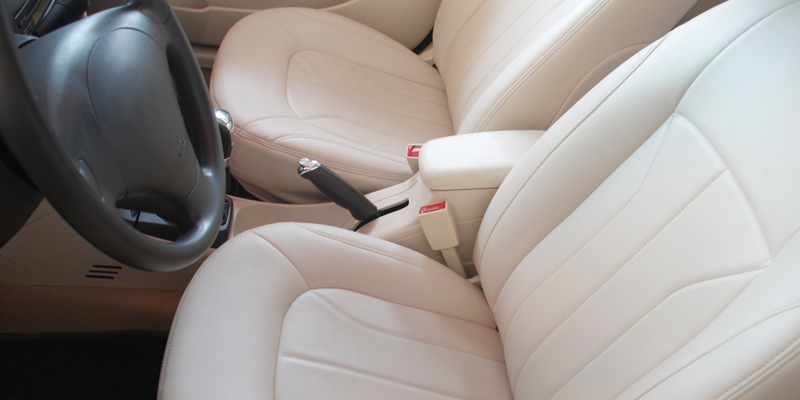
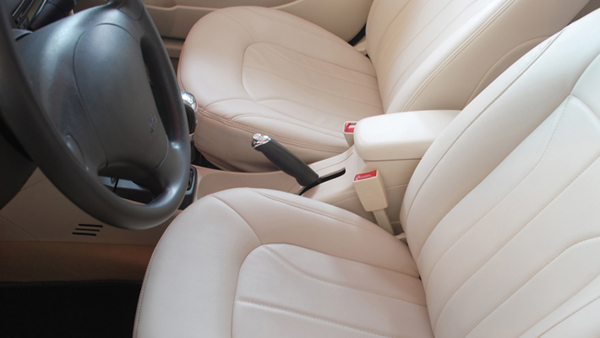
31.07.20

diff --git a/index.html b/index.html
@@ -5,18 +5,23 @@
 		<link rel="stylesheet" href="css.css">
 	</head>
 	<body>
+		<div id="top_menu">
+		</div>
 		
-		<div id="header">
-			<div id="textheader">
-				Перетяжка и реставрация <br>
-				автомобильных салонов<br>
-				Тонировка<br>
-				Василий<br>
-				0-779-81502<br>
-				069758501<br>
+		<div id="info">
+			<div id="text_info">
+				<div id="into_text_info">
+					text text text text text text text text text text text text text text text text text text <br>
+			text text text text text text text text text text text text text text text text text text <br>
+			text text text text text text text text text text text text text text text text text text <br>
+			text text text text text text text text text text text text text text text text text text <br>
+			text text text text text text text text text text text text text text text text text text <br>
+			text text text text text text text text text text text text text text text text text text <br>
+			text text text text text text text text text text text text text text text text text text 
+				</div>
 			</div>
 			
-			<div id="slidbar">
+			<div id="slid_info">
 				<div class="all">
 					<input checked type="radio" name="respond" id="desktop">
 					<article id="slider">
@@ -62,69 +67,39 @@
 				</div>
 			</div>
 		</div>
-		
-		
-		
-		
+		</div>
 		
 		<div id="content">
-			<div class="text"> 
-			text3 text3 text3 text3 text3 text3text3<br>
-			text3 text3 text3 text3 text3 text3 text3<br>
-			text3 text3 text3 text3 text3 text3 text3<br>
-			text3 text3 text3 text3 text3 text3 text3<br>
-			text3 text3 text3 text3 text3 text3 text3<br>
-			text3 text3 text3 text3 text3 text3 text3<br>
-			text3 text3 text3 text3 text3 text3 text3<br>
-			text3 text3 text3 text3 text3 text3 text3<br>
-			text3 text3 text3 text3 text3 text3 text3<br>
-			text3 text3 text3 text3 text3 text3 text3<br>
-			text3 text3 text3 text3 text3 text3 text3<br>
-			text3 text3 text3 text3 text3 text3 text3<br>
-			text3 text3 text3 text3 text3 text3 text3<br>
-			text3 text3 text3 text3 text3 text3 text3<br>
-			text3 text3 text3 text3 text3 text3 text3<br>
-			text3 text3 text3 text3 text3 text3 text3<br>
-			text3 text3 text3 text3 text3 text3 text3<br>
-			text3 text3 text3 text3 text3 text3 text3<br>
-			text3 text3 text3 text3 text3 text3 text3<br>
-			text3 text3 text3 text3 text3 text3 text3<br>
-			text3 text3 text3 text3 text3 text3 text3<br>
-			text3 text3 text3 text3 text3 text3 text3<br>
-			text3 text3 text3 text3 text3 text3 text3<br>
-			text3 text3 text3 text3 text3 text3 text3<br>
-			text3 text3 text3 text3 text3 text3 text3<br>
-			text3 text3 text3 text3 text3 text3 text3<br>
-			text3 text3 text3 text3 text3 text3 text3<br>
-			text3 text3 text3 text3 text3 text3 text3<br>
-			text3 text3 text3 text3 text3 text3 text3<br>
-			text3 text3 text3 text3 text3 text3 text3<br>
-			text3 text3 text3 text3 text3 text3 text3<br>
-			text3 text3 text3 text3 text3 text3 text3<br>
-			text3 text3 text3 text3 text3 text3 text3<br>
-			text3 text3 text3 text3 text3 text3 text3<br>
-			text3 text3 text3 text3 text3 text3 text3<br>
-			text3 text3 text3 text3 text3 text3 text3<br>
-			text3 text3 text3 text3 text3 text3 text3<br>
-			text3 text3 text3 text3 text3 text3 text3<br>
-			text3 text3 text3 text3 text3 text3 text3<br>
-			text3 text3 text3 text3 text3 text3 text3<br>
-			text3 text3 text3 text3 text3 text3 text3<br>
-			text3 text3 text3 text3 text3 text3 text3<br>
-			text3 text3 text3 text3 text3 text3 text3<br>
-			text3 text3 text3 text3 text3 text3 text3<br>
-			text3 text3 text3 text3 text3 text3 text3<br>
-			text3 text3 text3 text3 text3 text3 text3<br>
-			text3 text3 text3 text3 text3 text3 text3<br>
-			text3 text3 text3 text3 text3 text3 text3<br>
-			text3 text3 text3 text3 text3 text3 text3<br>
-			text3 text3 text3 text3 text3 text3 text3<br>
-			text3 text3 text3 text3 text3 text3 text3<br>
-			text3 text3 text3 text3 text3 text3 text3<br>
-			text3 text3 text3 text3 text3 text3 text3<br></div>
+			text text text text text text text text text text text text text text text text text text <br>
+			text text text text text text text text text text text text text text text text text text <br>
+			text text text text text text text text text text text text text text text text text text <br>
+			text text text text text text text text text text text text text text text text text text <br>
+			text text text text text text text text text text text text text text text text text text <br>
+			text text text text text text text text text text text text text text text text text text <br>
+			text text text text text text text text text text text text text text text text text text <br>
+			text text text text text text text text text text text text text text text text text text <br>
+			text text text text text text text text text text text text text text text text text text <br>
+			text text text text text text text text text text text text text text text text text text <br>
+			text text text text text text text text text text text text text text text text text text <br>
+			text text text text text text text text text text text text text text text text text text <br>
+			text text text text text text text text text text text text text text text text text text <br>
+			text text text text text text text text text text text text text text text text text text <br>
+			text text text text text text text text text text text text text text text text text text <br>
+			text text text text text text text text text text text text text text text text text text <br>
+			text text text text text text text text text text text text text text text text text text <br>
+			text text text text text text text text text text text text text text text text text text <br>
+			text text text text text text text text text text text text text text text text text text <br>
+			text text text text text text text text text text text text text text text text text text <br>
+			text text text text text text text text text text text text text text text text text text <br>
+			text text text text text text text text text text text text text text text text text text <br>
+			text text text text text text text text text text text text text text text text text text <br>
+			text text text text text text text text text text text text text text text text text text <br>
+			text text text text text text text text text text text text text text text text text text <br>
+			text text text text text text text text text text text text text text text text text text <br>
+			text text text text text text text text text text text text text text text text text text <br>
 		</div>
+		
 		<div id="footer">
-			<div class="text">text4 text4 text4 text4 text4</div>
 		</div>
 	</body>
 </html>

diff --git a/css.css b/css.css
@@ -1,54 +1,53 @@
 body {
-	margin: 0px;
-}
-
-#header{
-	width: 100%;
-    height: 400px;
-	margin: 0px;
-	background: #0080d6;
-}
-
-#content{
-	width: 100%;
-    background: #9ef7af;
-	margin: 0px;
-}
-
-#footer{
-    height: 100px; 
-	width: 100%;
-    background: #41874e;
-	margin: 0px;
-}
-
-.text {
-	padding: 10px;
 	margin: 0;
 }
 
-#textheader{
-	padding: 10px;
-	height: 380px;
-	width: 300px;
-	background: #0080d6;
-	font-style: italic;
-	color: white;
-	font-size: x-large;
-	float: left;
+#top_menu{
+	width: 100%;
+	height: 80px;
+	background: #000;
 }
 
-#photo {
-margin: 10px 0 0;
+#info{
+	width: 100%;
+	height: 500px;
+	margin: auto;
 }
 
-#slidbar {
-	float: right;
-	padding:0px;
-	text-align: right;
-	background-color: #119af6;
-	height: 400px;
+      #text_info{
+	      width: 40%;
+          height: 500px;
+		  float: left;
+      }
+
+            #into_text_info{
+				margin-left: 19%;
+				background: #f0eee9;
+				height: 500px;
+				text-indent: 5px;
+            }
+#into_text_info .text{
 	
+}
+
+
+
+      #slid_info{
+		  position: static;
+	      width: 60%;
+	      height: 500px;
+		  float: right;
+      }
+
+#content{
+	width: 100%;
+	background: #181818;
+}
+
+#footer{
+	width: 100%;
+	height: 100px;
+	background: #f0eee9;
 }
 
 
@@ -61,7 +60,7 @@ margin: 10px 0 0;
 
 
 #slider{ /*центровка слайдера*/
-	margin: 0 auto;
+	margin: 81px auto;
 }
 
 #slides article{ /*все изображения справа друг от доруга*/
@@ -79,13 +78,12 @@ margin: 10px 0 0;
 }
 
 article img{ /*размер изображений слайдера*/
-	width: 800px;
+	width: 100%;
 	display: inline-block;
-	float: left/right;
 }
 
 #desktop:checked ~ #slider{ /*размер всего слайдера*/
-	max-width: 800px; /*максимальнная длинна*/
+	max-width: 600px; /*максимальнная длинна*/
 }
 
 /*настройка переключения и положения для левой стрелки*/
